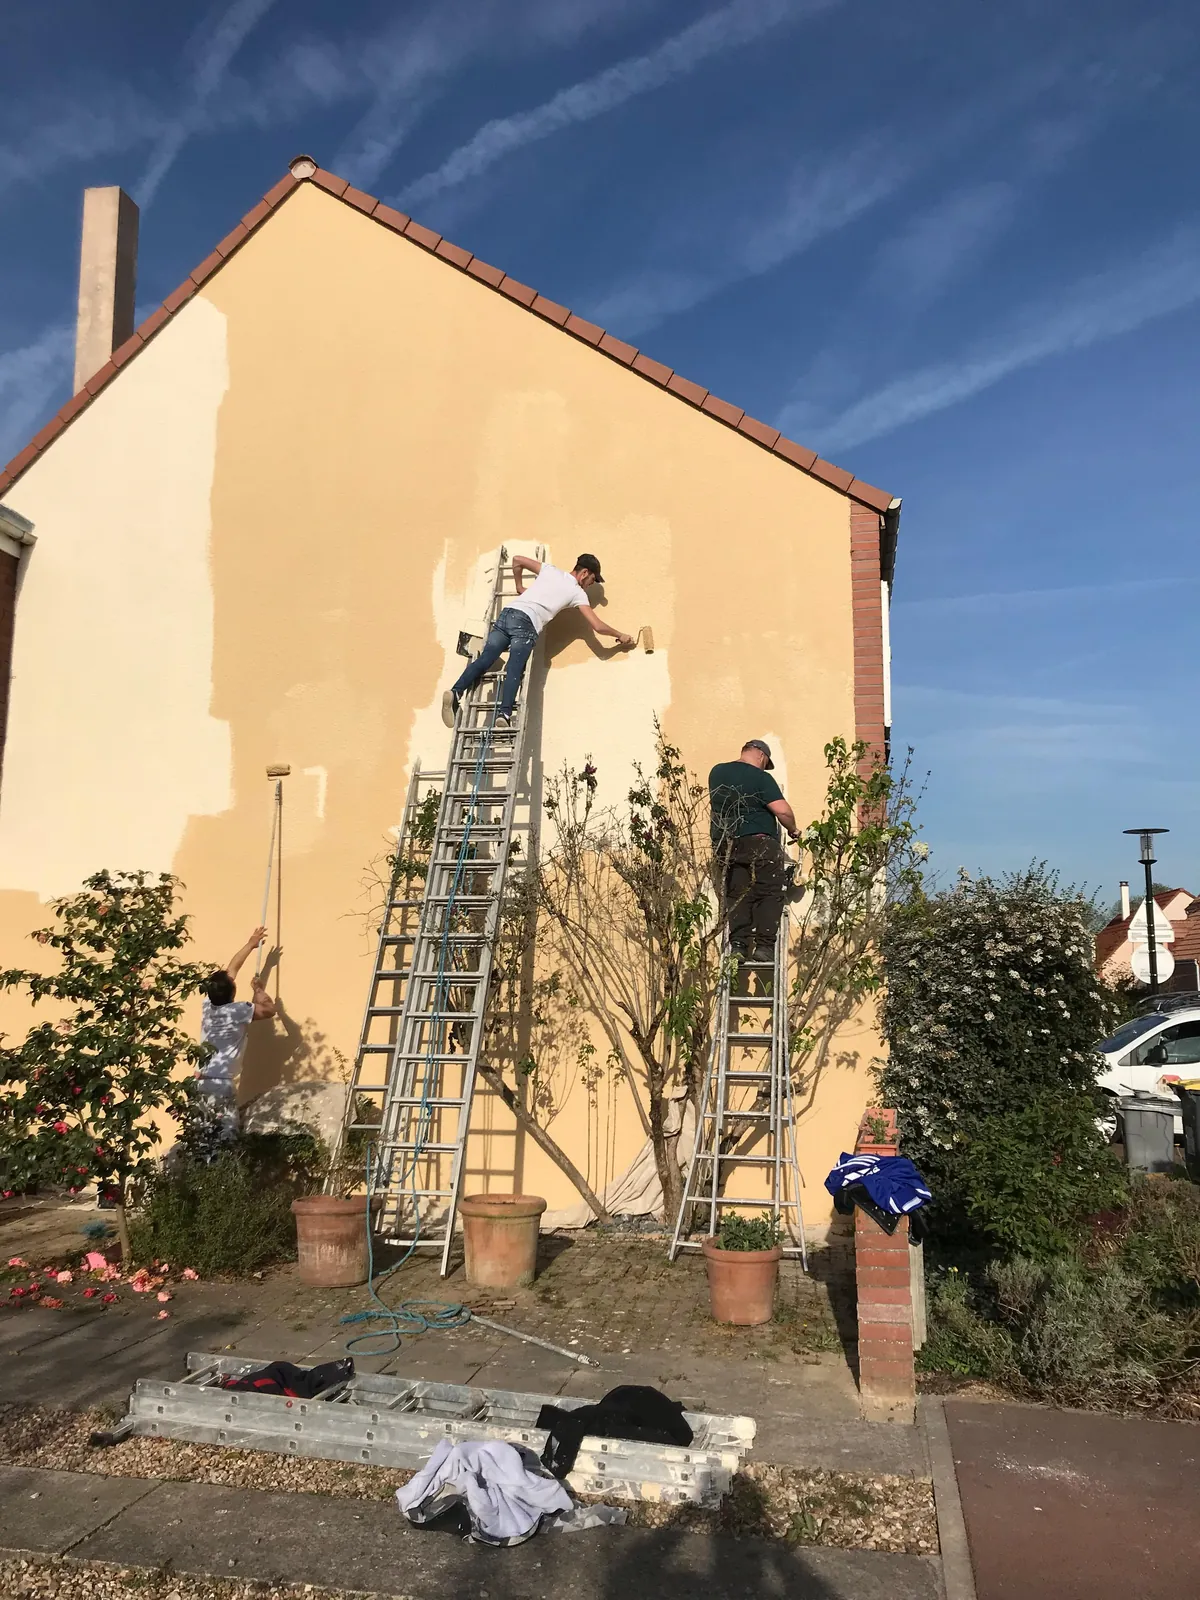
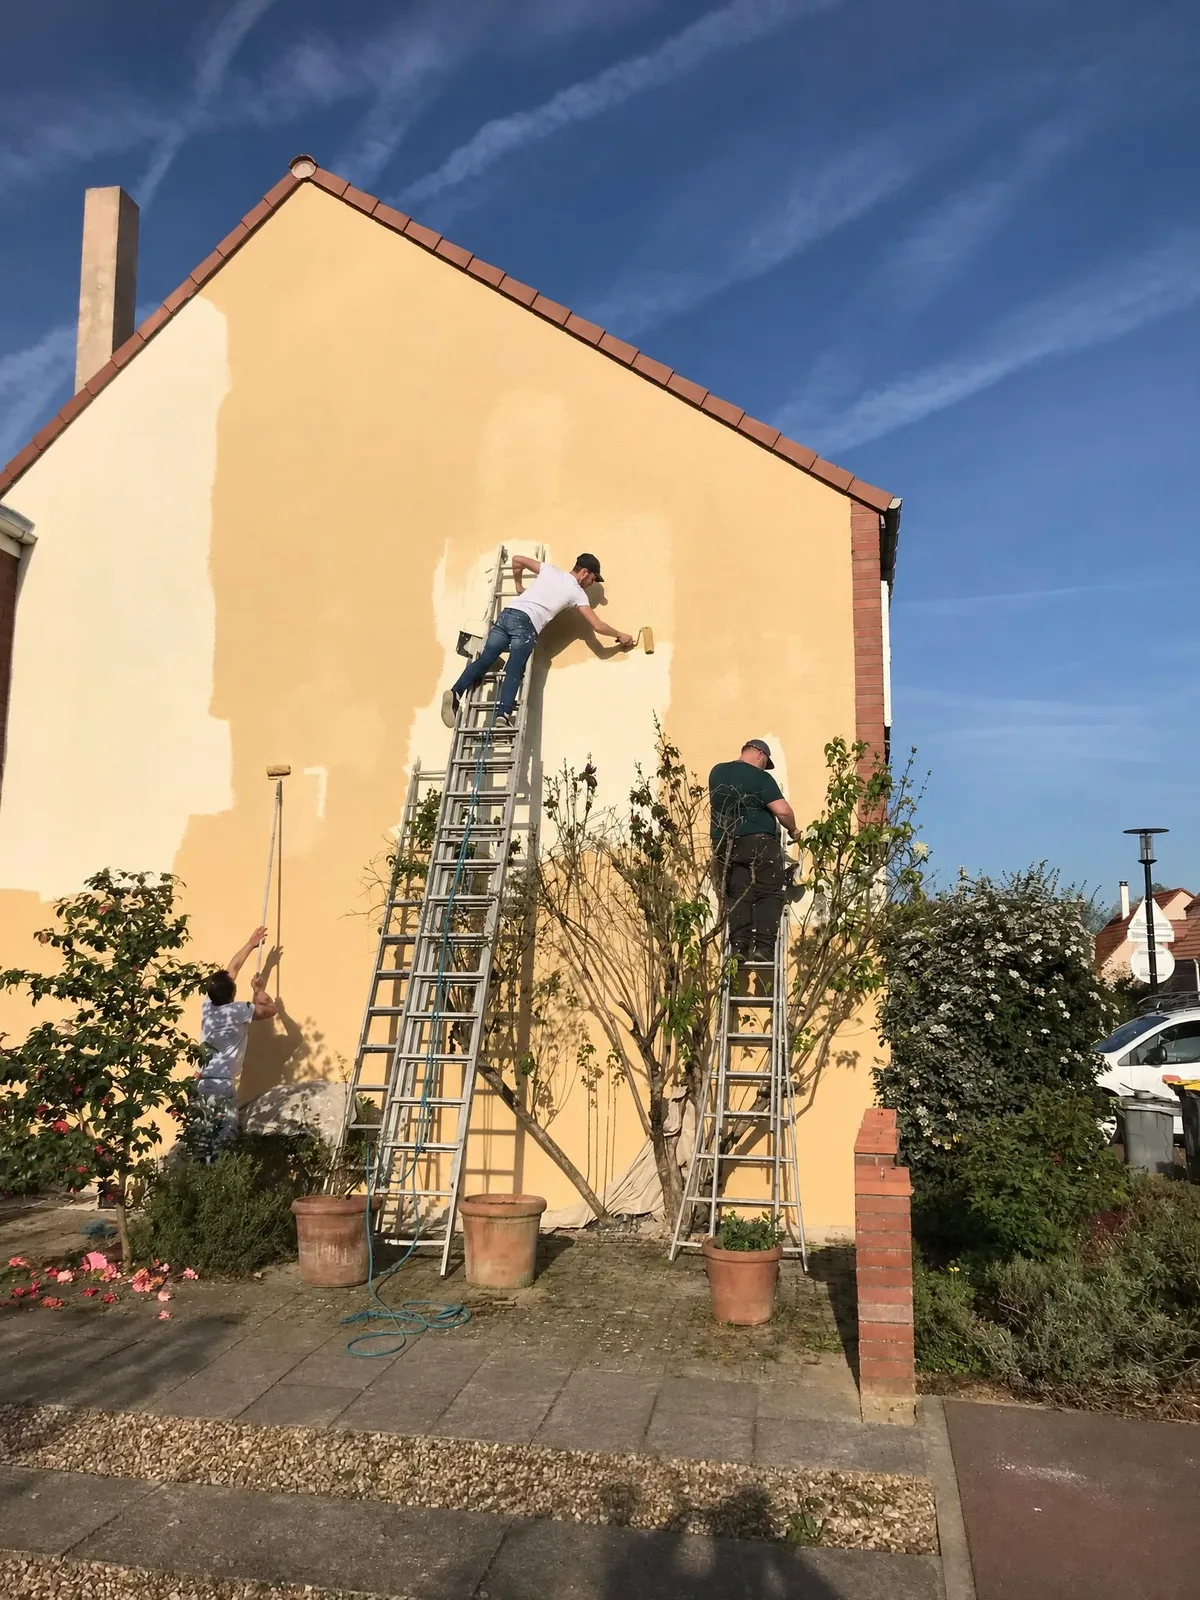
Photo de chantier nettoyée, Steevy GRAND, expertises en cartes photo, comparateur retiré, Chiffrer mes travaux
Claude-Session: https://claude.ai/code/session_014hvRLx4t47eUm2HLtG1e9N

diff --git a/src/app/page.tsx b/src/app/page.tsx
@@ -6,7 +6,6 @@ import { Hero } from "@/components/Hero";
 import { Proof } from "@/components/Proof";
 import { Chapter } from "@/components/Chapter";
 import { ChapterIntro } from "@/components/ChapterIntro";
-import { Compare } from "@/components/Compare";
 import { Rail } from "@/components/Rail";
 import { ficheHref } from "@/config/fiches";
 import { RealWork } from "@/components/RealWork";
@@ -70,10 +69,10 @@ export default function Home() {
                 { src: "/images/etape-preparation.webp", alt: "Maison sous échafaudage, protégée par des filets" },
               ]}
               items={[
-                { label: "Ravalement complet", text: "Piquage, reprise de l'enduit, finition neuve", href: ficheHref("ravalement") },
-                { label: "Réparation des fissures", text: "Agrafées, rebouchées, invisibles", href: ficheHref("fissures") },
-                { label: "Hydrofuge et imperméabilisation", text: "L'eau perle, le mur respire", href: ficheHref("hydrofuge") },
-                { label: "Isolation par l'extérieur", text: "Isolant et enduit neuf en une opération", href: ficheHref("ite") },
+                { label: "Ravalement complet", text: "Piquage, reprise de l'enduit, finition neuve", href: ficheHref("ravalement"), photo: "/images/vrai-chantier-taloche.webp" },
+                { label: "Réparation des fissures", text: "Agrafées, rebouchées, invisibles", href: ficheHref("fissures"), photo: "/images/vrai-fissure-apres.webp" },
+                { label: "Hydrofuge et imperméabilisation", text: "L'eau perle, le mur respire", href: ficheHref("hydrofuge"), photo: "/images/prestation-hydrofuge.webp" },
+                { label: "Isolation par l'extérieur", text: "Isolant et enduit neuf en une opération", href: ficheHref("ite"), photo: "/images/prestation-ite.webp" },
               ]}
               source="chapitre-ravalement"
             />
@@ -91,9 +90,9 @@ export default function Home() {
                 { src: "/images/service-peinture.webp", alt: "Un peintre repeint une façade ocre au rouleau", position: "50% 35%" },
               ]}
               items={[
-                { label: "Peinture de façade", text: "Minérale ou pliolite, plus de 80 teintes", href: ficheHref("peinture") },
-                { label: "Peinture intérieure", text: "Pièces de vie, plafonds, cages d'escalier", href: ficheHref("peinture") },
-                { label: "Volets et boiseries", text: "Décapés, poncés, repeints", href: ficheHref("peinture") },
+                { label: "Peinture de façade", text: "Minérale ou pliolite, plus de 80 teintes", href: ficheHref("peinture"), photo: "/images/service-peinture.webp" },
+                { label: "Peinture intérieure", text: "Pièces de vie, plafonds, cages d'escalier", href: ficheHref("peinture"), photo: "/images/peinture-interieure.webp" },
+                { label: "Volets et boiseries", text: "Décapés, poncés, repeints", href: ficheHref("peinture"), photo: "/images/vrai-realisation-volets-bois.webp" },
               ]}
               source="chapitre-peinture"
             />
@@ -110,22 +109,13 @@ export default function Home() {
                 { src: "/images/prestation-hydrofuge.webp", alt: "Gouttes d'eau qui perlent sur un enduit traité" },
               ]}
               items={[
-                { label: "Nettoyage et démoussage", text: "Basse pression, sans abîmer l'enduit", href: ficheHref("nettoyage") },
-                { label: "Boiseries et volets", text: "Bois lavé, éclairci, protégé", href: ficheHref("boiseries") },
-                { label: "Dalles, dallages et murets", text: "Terrasses, allées, murets en pierre", href: ficheHref("dallage") },
-                { label: "Traitement hydrofuge", text: "Pour que la façade reste propre", href: ficheHref("hydrofuge") },
+                { label: "Nettoyage et démoussage", text: "Basse pression, sans abîmer l'enduit", href: ficheHref("nettoyage"), photo: "/images/service-nettoyage.webp" },
+                { label: "Boiseries et volets", text: "Bois lavé, éclairci, protégé", href: ficheHref("boiseries"), photo: "/images/vrai-realisation-volets-bois.webp" },
+                { label: "Dalles, dallages et murets", text: "Terrasses, allées, murets en pierre", href: ficheHref("dallage"), photo: "/images/vrai-realisation-pavillon-blanc-2.webp" },
+                { label: "Traitement hydrofuge", text: "Pour que la façade reste propre", href: ficheHref("hydrofuge"), photo: "/images/prestation-hydrofuge.webp" },
               ]}
               source="chapitre-nettoyage"
             />
-            <div className="wrap pb-14 md:pb-24">
-              <Compare
-                before={{ src: "/images/bourg-avant.webp", alt: "Maison de bourg avant nettoyage, enduit couvert de mousse" }}
-                after={{ src: "/images/bourg-apres.webp", alt: "La même maison après nettoyage, enduit beige clair" }}
-                position="50% 60%"
-                className="aspect-[4/3.4] rounded-[28px] md:aspect-[16/8] md:rounded-[32px]"
-              />
-              <p className="mt-3 text-[0.875rem] text-ardoise">Nettoyage et hydrofuge : faites glisser pour comparer (photo d&apos;illustration).</p>
-            </div>
           </Chapter>
 
           <Chapter id="contact">

diff --git a/src/components/ChapterIntro.tsx b/src/components/ChapterIntro.tsx
@@ -7,7 +7,7 @@ import { useQuote } from "./QuoteContext";
 import { Arrow, Chevron } from "./icons";
 
 type Photo = { src: string; alt: string; position?: string };
-type Item = { label: string; text: string; href: string };
+type Item = { label: string; text: string; href: string; photo: string };
 
 /** Ouverture d'un chapitre : le métier en une phrase, deux photos, les prestations qui en font partie. */
 export function ChapterIntro({
@@ -46,13 +46,17 @@ export function ChapterIntro({
         <div className={second ? "pt-4 lg:pt-0" : ""}>
           <h2 className="t-display text-[clamp(2.25rem,9vw,4rem)]">{title}</h2>
           <p className="t-lede mt-4 max-w-[42ch] md:mt-6">{typo(lede)}</p>
-          <ul className="mt-6 border-t border-trait md:mt-8">
+          {/* les expertises du métier : une carte photo chacune, qui mène à sa fiche */}
+          <ul className={`mt-6 grid gap-2.5 md:mt-8 ${items.length > 3 ? "sm:grid-cols-2 lg:grid-cols-1 2xl:grid-cols-2" : ""}`}>
             {items.map((it) => (
-              <li key={it.label} className="border-b border-trait">
-                <Link href={it.href} className="group flex items-center justify-between gap-4 py-3.5 md:py-4">
-                  <span>
-                    <span className="block text-[1.0625rem] font-[620] tracking-[-0.015em] md:text-[1.125rem]">{it.label}</span>
-                    <span className="mt-0.5 block text-[0.9375rem] leading-[1.4] text-ardoise">{typo(it.text)}</span>
+              <li key={it.label}>
+                <Link href={it.href} className="group flex h-full items-center gap-3.5 rounded-[20px] bg-gris p-2 pr-3.5 transition-colors duration-200 hover:bg-[#e9e9ed] md:gap-4">
+                  <span className="relative h-16 w-16 shrink-0 overflow-hidden rounded-[14px] bg-trait md:h-[72px] md:w-[72px] lg:h-14 lg:w-14 2xl:h-[72px] 2xl:w-[72px]">
+                    <Image src={it.photo} alt="" fill quality={70} sizes="72px" className="object-cover transition-transform duration-500 group-hover:scale-105" />
+                  </span>
+                  <span className="min-w-0 flex-1">
+                    <span className="block text-[1rem] font-[640] leading-[1.25] tracking-[-0.015em] md:text-[1.0625rem]">{it.label}</span>
+                    <span className="mt-0.5 block text-[0.875rem] leading-[1.35] text-ardoise md:text-[0.9375rem]">{typo(it.text)}</span>
                   </span>
                   <Chevron className="h-5 w-5 shrink-0 text-brume transition-transform duration-300 group-hover:translate-x-1 group-hover:text-encre" />
                 </Link>

diff --git a/src/components/Proof.tsx b/src/components/Proof.tsx
@@ -8,14 +8,14 @@ const points = [
   ["À la fin", "Il fait le tour avec vous avant de partir"],
 ] as const;
 
-/** L'artisan, en vrai : Steevy Grand et son équipe sur leurs chantiers. */
+/** L'artisan, en vrai : Steevy GRAND et son équipe sur leurs chantiers. */
 export function Proof() {
   return (
     <section id="steevy" className="py-14 md:py-[min(8rem,12svh)]" aria-labelledby="steevy-title">
       <div className="wrap grid gap-x-14 gap-y-8 lg:grid-cols-[minmax(0,0.95fr)_minmax(0,1.05fr)] lg:items-center">
         <div>
           <h2 id="steevy-title" className="t-h2 max-w-[13ch]">
-            Steevy Grand, sur chaque chantier.
+            Steevy GRAND, sur chaque chantier.
           </h2>
           <p className="t-lede mt-4 max-w-[40ch] md:mt-6">
             Façadier installé à Soings-en-Sologne, Steevy suit votre projet du premier appel à la réception. Vous savez toujours à qui parler.
@@ -30,7 +30,7 @@ export function Proof() {
           </dl>
           <a href={`tel:${site.phoneHref}`} className="btn btn-ink mt-7 tabular-nums md:mt-9">
             <Phone className="h-5 w-5" />
-            Appeler Steevy, {site.phone}
+            Appeler Steevy GRAND
           </a>
         </div>
 
@@ -38,7 +38,7 @@ export function Proof() {
         <figure className="-order-1 lg:order-none">
           <div className="grid h-[min(70svh,560px)] grid-cols-[1.35fr_1fr] grid-rows-2 gap-2.5 md:gap-3">
             <div className="relative row-span-2 overflow-hidden rounded-[24px] bg-gris md:rounded-[30px]">
-              <Image src="/images/vrai-chantier-pignon.webp" alt="Steevy Grand et son équipe sur des échelles, en train de reprendre l'enduit d'un pignon" fill quality={80} sizes="(min-width: 1024px) 420px, 58vw" className="object-cover" style={{ objectPosition: "50% 60%" }} />
+              <Image src="/images/vrai-chantier-pignon.webp" alt="Steevy GRAND et son équipe sur des échelles, en train de reprendre l'enduit d'un pignon" fill quality={80} sizes="(min-width: 1024px) 420px, 58vw" className="object-cover" style={{ objectPosition: "50% 60%" }} />
             </div>
             <div className="relative overflow-hidden rounded-[20px] bg-gris md:rounded-[26px]">
               <Image src="/images/vrai-chantier-taloche.webp" alt="Enduit repris à la taloche sur un pignon" fill quality={78} sizes="(min-width: 1024px) 300px, 42vw" className="object-cover" style={{ objectPosition: "45% 35%" }} />

diff --git a/src/components/Simulator.tsx b/src/components/Simulator.tsx
@@ -126,7 +126,7 @@ export function Simulator() {
     <section id="simulateur" className="bg-gris py-14 md:py-[min(8rem,12svh)]" aria-labelledby="sim-title">
       <div className="wrap">
         <h2 id="sim-title" className="t-h2 max-w-[13ch]">
-          Combien pour votre façade&nbsp;?
+          Chiffrer mes travaux
         </h2>
         <p className="t-lede mt-4 max-w-[42ch] md:mt-6">Cinq réponses, et le calcul est fait. Votre estimation chiffrée arrive par email dans la minute.</p>
 
@@ -213,7 +213,7 @@ export function Simulator() {
                         Masquée
                       </span>
                     </p>
-                    <p className="mt-3 select-none whitespace-nowrap text-[clamp(1.9rem,8.6vw,2.6rem)] font-[650] leading-none tracking-[-0.035em] tabular-nums blur-[9px]" aria-hidden>
+                    <p className="mt-3 select-none whitespace-nowrap text-[clamp(1.9rem,8.6vw,2.6rem)] font-[650] leading-none tracking-[-0.035em] tabular-nums blur-[7px] opacity-90 [text-shadow:0_0_14px_rgb(255_255_255/0.35)]" aria-hidden>
                       <AnimatedNumber value={ghost.low} /> à <AnimatedNumber value={ghost.high} />
                       &nbsp;€
                     </p>

diff --git a/src/config/site.ts b/src/config/site.ts
@@ -7,7 +7,7 @@
  *  Quand tout est réel, passe `demo` à false : ça retire les
  *  mentions "exemple" affichées sur le site.
  *
- *  Le téléphone est celui de Steevy Grand (vrai numéro).
+ *  Le téléphone est celui de Steevy GRAND (vrai numéro).
  * ============================================================
  */
 
@@ -39,7 +39,7 @@ export const site = {
   rating: { value: 4.9, count: 327 },
 
   /** Légende de la photo d'équipe */
-  teamCaption: "Steevy Grand et son équipe sur un pignon, enduit repris à la taloche.",
+  teamCaption: "Steevy GRAND et son équipe sur un pignon, enduit repris à la taloche.",
 
   stats: [
     { value: 1240, suffix: "", label: "façades rénovées depuis 2011" },

diff --git a/src/components/Gallery.tsx b/src/components/Gallery.tsx
@@ -1,6 +1,6 @@
 import Image from "next/image";
 
-/** Réalisations : vraies photos de chantiers de Steevy Grand. */
+/** Réalisations : vraies photos de chantiers de Steevy GRAND. */
 const works = [
   { src: "/images/vrai-realisation-pavillon-blanc.webp", title: "Pavillon et terrasse", detail: "Ravalement, enduit blanc", alt: "Pavillon à l'enduit blanc refait, vu depuis le jardin", wide: true },
   { src: "/images/vrai-realisation-volets-bois.webp", title: "Maison aux volets bois", detail: "Façade blanche, volets conservés", alt: "Maison à la façade blanche et aux volets en bois" },

diff --git a/src/components/Hero.tsx b/src/components/Hero.tsx
@@ -150,7 +150,7 @@ export function Hero() {
               <li className="flex items-center gap-1.5">
                 <Star className="h-4 w-4 text-[#ffc94d] md:text-tuile" />
                 <span>
-                  <span className="text-white md:text-encre">Steevy Grand</span>, façadier
+                  <span className="text-white md:text-encre">Steevy GRAND</span>, façadier
                 </span>
               </li>
               <li className="flex items-center gap-1.5">

diff --git a/src/components/RealWork.tsx b/src/components/RealWork.tsx
@@ -4,7 +4,7 @@ import Image from "next/image";
 import { useState } from "react";
 import { useQuote } from "./QuoteContext";
 
-/** Avant / après de vrais chantiers de Steevy Grand. Les photos ne sont pas cadrées pareil : on les montre côte à côte. */
+/** Avant / après de vrais chantiers de Steevy GRAND. Les photos ne sont pas cadrées pareil : on les montre côte à côte. */
 const cases = [
   {
     id: "orsay",
